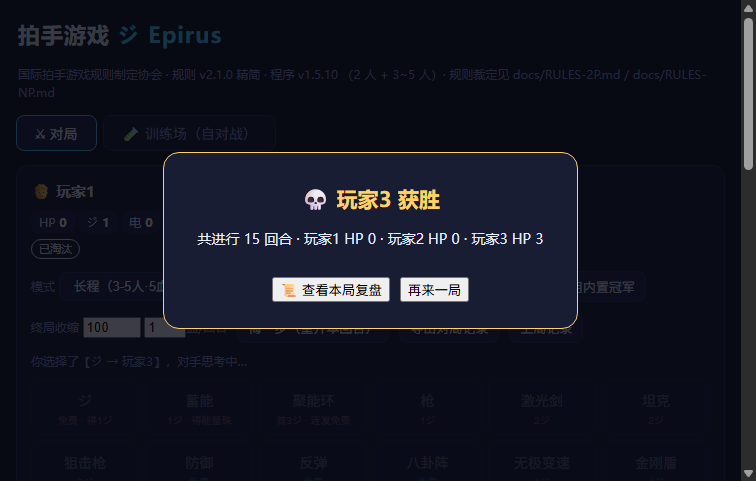
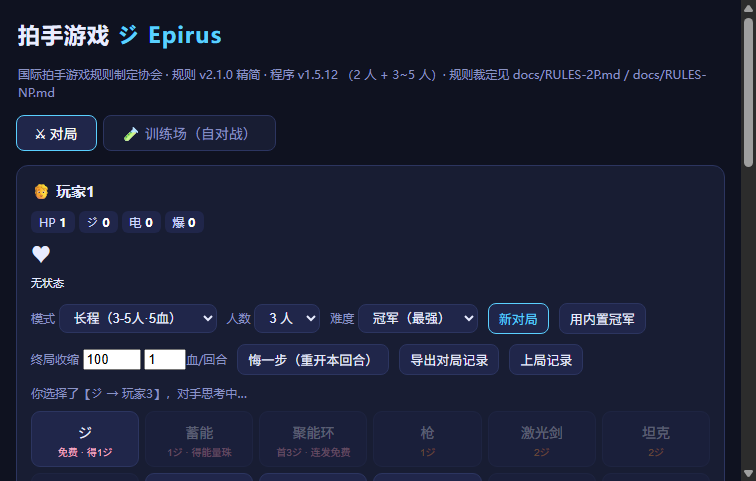
v1.5.12 回滚长程默认开哨声惩罚（实测空操作，证据：两条臂产出逐字节相同）
为什么回滚：v1.5.11 按推理把哨声惩罚设成长程默认 0.5，用户说按你的意思做之后我做了干净配对验证 —— lngC（长程·自动 0.5）vs lngD（长程·显式 0），其余全同（12 对手池/6 seed/起点 v1.3.58/250 代/同引擎）。结果：6 个 seed 里能比的 5 个，两份产物逐字节相同（lngC-31==lngD-31 … -35），配对统计也完全一致（自评 +2.06 / 标准考卷 +9.23 / 反弹墙 -8.33）；而两份 meta 分别正确记着 whistlePen:0.5/override:null 与 0/override:0 ⇒ 接线没问题。真正原因是这条规则在长程从不触发：终局收缩 + 5 血 ⇒ 长程局几乎总以有人被淘汰结束（v1.5.10 实测 12/12）⇒ aliveEnd>=2 的哨兵局约 0%。它有用的是多人 3 血（上限 60、收缩不触发 ⇒ 哨兵局常见，v1.5.9 实测回合 55->14~39、重击 0->5~9）。

改动：evo.js 的 WHISTLE_PEN 回到 0（默认关）、whistlePenNow() 只回显显式值，按模式猜默认值的代码删掉并把理由写进注释（防止以后又凭推理加回来）；np-test D18 断言 multi/long 都默认 0 且仍可显式开。

长程臂 lngC/lngD 的产物与体检入库（REVIEW 11.8）：没有比 eco-34 更好的冠军（最能打的 lngC-33/36 考卷 28~30% < eco-34 的 45.6%；lngC-35 仍是 0 伤害/100% 平局的摆烂型）⇒ 上线冠军不变。

顺带：server 现在把实际生效的奖励参数打进日志（[fight]/[eco] 生效值）并写进产物 meta（fightEffective/ecoEffective），worker 回报 fightPen 回执、服务端核对不一致就中止整个 run —— 防的是服务端开了 worker 没开的静默半开（本项目栽过 4 次的老毛病）。

回归：spec 37/37、np-test 68/68、smoke SMOKE OK、battle-test BATTLE OK。

diff --git a/js/train/evo.js b/js/train/evo.js
@@ -605,16 +605,16 @@
    * ⇒ 光看考卷会把"摆烂"当成强度（千问体检 §5-4 早就点过："能量出'赢'还是'熬'"）。
    * 这里给"熬出来的胜利"打折：终局时**还有 ≥2 人活着**（没人被淘汰）⇒ 判为哨声局。
    * 反证（np-test D18）：把 rankCredit 里的哨声判断删掉，D18 立刻红。 */
-  let WHISTLE_PEN = null;   // null = **自动**（长程默认 0.5、其余 0）；数字 = 显式覆盖
+  let WHISTLE_PEN = 0;      // 0 = 关（默认）；数字 = 显式覆盖（v1.5.12 起不再有"长程自动 0.5"）
   let DEAL_W = 0.01;        // 出手奖励权重（原值写死 0.01）
-  /* v1.5.11（用户裁定"那就按照你的意思做吧"）：**长程训练默认开哨声惩罚**。
-   * 理由：长程局回合上限高（140），而规则层的终局收缩要到第 100 回合才起效 ⇒ 在那之前"熬"仍然划算；
-   * 实测（REVIEW §11.7）0.5 能把这类摆烂改掉（回合 55→14~39、cost≥3 重击 0→5~9）。
-   * 其余模式默认 0 ⇒ 既有口径逐位不变（D18 钉住这两条）。 */
-  function whistlePenNow() {
-    if (WHISTLE_PEN != null) return WHISTLE_PEN;
-    return (TRAIN_MODE === 'long') ? 0.5 : 0;
-  }
+  /* v1.5.12 回滚 v1.5.11 的"长程默认 0.5"——**实测证明它在长程是空操作**。
+   * 证据（`lngC` = 长程·自动 0.5 vs `lngD` = 长程·显式 0，其余全同，6 seed；见 REVIEW §11.8）：
+   * 两份产物**逐字节相同**，而 meta 分别正确记着 `whistlePen:0.5/override:null` 与 `0/override:0`
+   * ⇒ 接线没问题，是**这条规则在长程从不触发**：终局收缩 + 5 血 ⇒ 长程局几乎总以"有人被淘汰"结束，
+   * `aliveEnd >= 2` 的哨兵局 ≈ 0%。
+   * 惩罚真正有用的是**多人 3 血**（上限 60、收缩不触发 ⇒ 哨兵局常见，v1.5.9 实测有效）——
+   * 那个场景用 `EPIRUS_FIGHT_WHISTLE` 显式开即可，不要用"按模式猜"的默认值。 */
+  function whistlePenNow() { return WHISTLE_PEN; }
   function rankCredit(rank, aliveEnd) {
     const base = rank === 1 ? 1.0 : (rank === 2 ? 0.3 : 0.0);
     const pen = whistlePenNow();
@@ -624,7 +624,7 @@
     o = o || {};
     if (o.whistlePen != null) WHISTLE_PEN = Math.max(0, Math.min(1, Number(o.whistlePen)));
     if (o.dealW != null) DEAL_W = Math.max(0, Number(o.dealW));
-    if (o.reset) { WHISTLE_PEN = null; DEAL_W = 0.01; }
+    if (o.reset) { WHISTLE_PEN = 0; DEAL_W = 0.01; }
     return fightReward();
   }
   function fightReward() { return { whistlePen: whistlePenNow(), override: WHISTLE_PEN, dealW: DEAL_W }; }

diff --git a/index.html b/index.html
@@ -10,7 +10,7 @@
 <div id="app">
   <header class="top">
     <h1>拍手游戏 <span class="jp">ジ Epirus</span></h1>
-    <span class="sub">国际拍手游戏规则制定协会 · 规则 v2.1.0 精简 · 程序 v1.5.11 （2 人 + 3~5 人）· 规则裁定见 docs/RULES-2P.md / docs/RULES-NP.md</span>
+    <span class="sub">国际拍手游戏规则制定协会 · 规则 v2.1.0 精简 · 程序 v1.5.12 （2 人 + 3~5 人）· 规则裁定见 docs/RULES-2P.md / docs/RULES-NP.md</span>
   </header>
 
   <nav class="tabs">

diff --git a/CHANGELOG.md b/CHANGELOG.md
@@ -1,3 +1,28 @@
+## v1.5.12 — 回滚"长程默认开哨声惩罚"（实测是**空操作**，证据：两条臂产出逐字节相同）
+
+### 为什么回滚
+v1.5.11 我按推理把哨声惩罚设成"长程默认 0.5"（理由：长程上限 140、终局收缩到第 100 回合才起效）。
+用户说"按你的意思做"之后，我**做了干净配对验证**：`lngC`（长程 · 自动 0.5）vs `lngD`（长程 · 显式 0），
+其余全同（12 对手池 / 6 seed / 起点 v1.3.58 / 250 代 / 同引擎）——
+**6 个 seed 里能比的 5 个，两份产物逐字节相同**，配对统计也完全一致
+（自评 Δ=+2.06、标准考卷 Δ=+9.23、反弹墙 Δ=−8.33；因为两条臂本来就是同一个东西）；
+而两份 meta 分别正确记着 `whistlePen:0.5/override:null` 与 `0/override:0` ⇒ **接线没问题**。
+真正的原因是**这条规则在长程从不触发**：终局收缩 + 5 血 ⇒ 长程局几乎总以"有人被淘汰"结束
+（v1.5.10 实测 12/12）⇒ `aliveEnd >= 2` 的哨兵局 ≈ 0%。
+（它有用的是**多人 3 血**：上限 60、收缩不触发 ⇒ 哨兵局常见，v1.5.9 实测回合 55→14~39、重击 0→5~9。）
+
+### 改动
+- `js/train/evo.js`：`WHISTLE_PEN` 回到 **0（默认关）**，`whistlePenNow()` 只回显显式值；
+  "按模式猜默认值"的代码删掉，理由写进注释（防止以后又凭推理加回来）。
+- `np-test D18`：断言 multi/long **都**默认 0，且仍可显式开（env / `setFightReward`）。
+- 长程臂 `lngC`/`lngD` 的产物与体检入库（REVIEW §11.8）：**没有比 `eco-34` 更好的冠军**
+  （标准考卷均值 30.4% < `eco-34` 的 42.9%）⇒ **上线冠军不变**。
+- 顺带：`server/*.mjs` 现在把**实际生效**的奖励参数打进日志（`[fight] 生效值` / `[eco] 生效值`）并写进产物 meta
+  （`fightEffective`/`ecoEffective`），且 worker 会回报 `fightPen` 回执、服务端核对不一致就**中止整个 run**
+  —— 防的是"服务端开了、worker 没开"这种静默半开（本项目栽过 4 次的老毛病）。
+
+回归：spec 37/37、np-test 68/68、smoke SMOKE OK。
+
 ## v1.5.11 — 终局收缩参数化（起点/每回合扣血可在页面调）+ 长程训练默认开哨声惩罚 + 换冠军自动跑技能报告
 
 > 三条都是"按你说的意思做"：前两条是我上轮提的开放项，第三条是你说的"以后每次冠军有大变化都做一下"。

diff --git a/README.md b/README.md
@@ -3,7 +3,7 @@
 依据国际拍手游戏规则制定协会的规则（[原仓库 Lion-LiHaoyi/Epirus](https://github.com/Lion-LiHaoyi/Epirus)，规则文档 v2.1.0）
 重新实现的一整套 **2 人可玩、可自对战训练** 程序。
 
-> **当前版本：v1.5.11** · 2 人对战（v1.0.0 功能冻结）+ **多人 3~5 人（技能齐全 + 3 人冠军 · AI 状态特征 v6，FEAT_S=123）**，见 `docs/RULES-NP.md`。
+> **当前版本：v1.5.12** · 2 人对战（v1.0.0 功能冻结）+ **多人 3~5 人（技能齐全 + 3 人冠军 · AI 状态特征 v6，FEAT_S=123）**，见 `docs/RULES-NP.md`。
 > v1.5.5：**全息屏障第二轮修正 —— 被小雷无效化的时机**。原始规则「优先级原则」：未标注的优先级均为 3、
 > **优先级高的攻击阻止优先级低的** ⇒ 小雷(5) 先于屏障(3) 结算 ⇒ **小雷打施放者即可拆盾**（打被套盾者拆不掉）。
 > v1.5.4 第一版漏读引擎的 `voided`（盾直读行动、绕过了 `actionOf`）⇒ 小雷打了施放者盾还照样出现；已修 + 用例 ⑤⑥。
